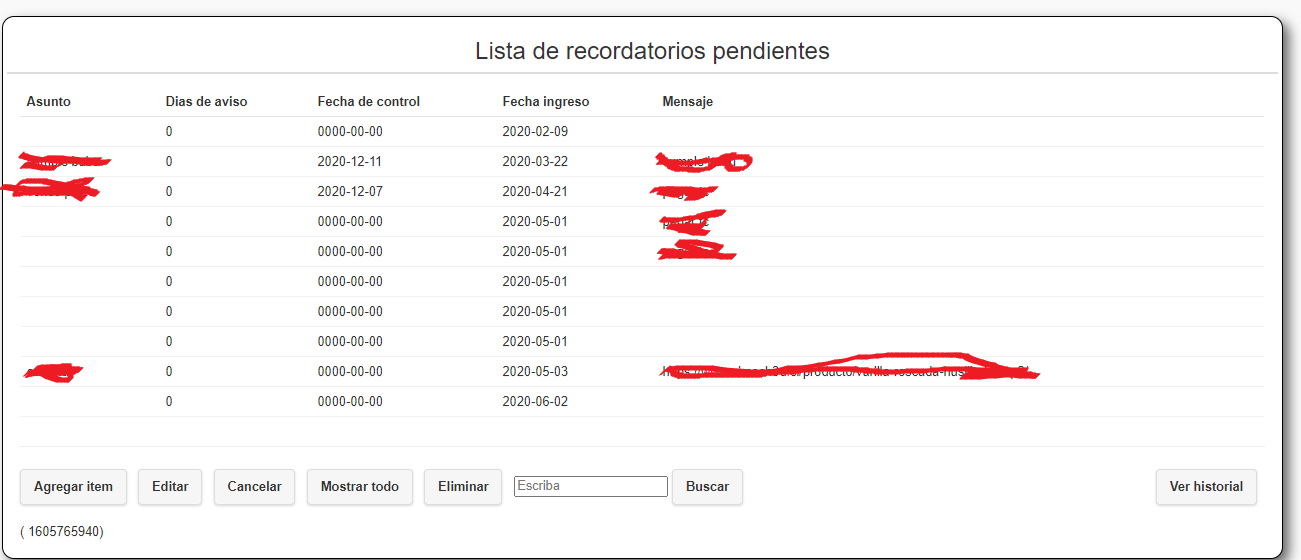
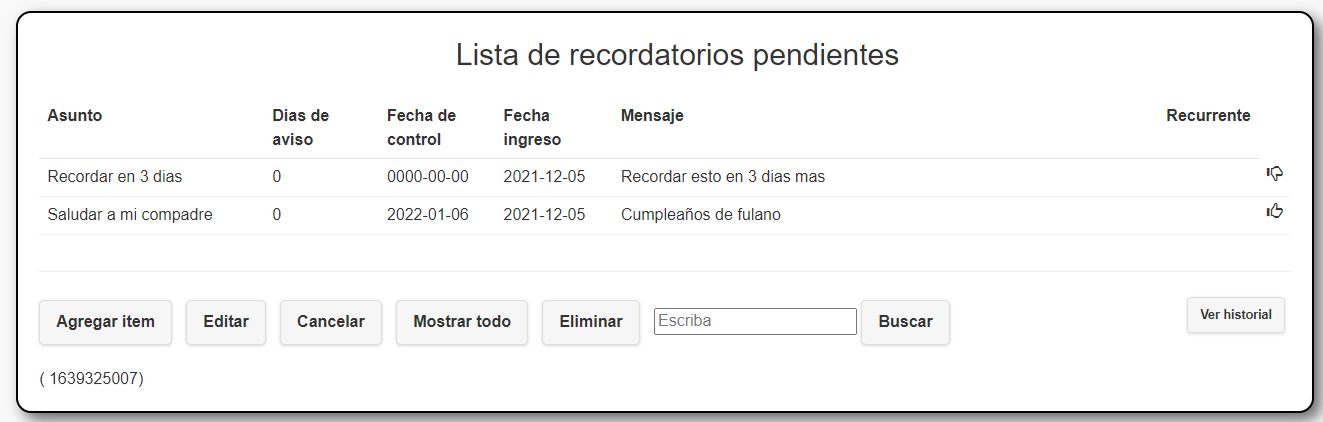
12.12.21
Opcion de cambiar recurrencia en la UI

diff --git a/index.php b/index.php
@@ -104,15 +104,23 @@ if ($_POST) {
                 if (isset($_GET['delete'])) {
 
                     $deleteid = $_GET['id'];
-
                     $deleteidquery = "DELETE FROM `recordatoriosp` WHERE id=$deleteid";
                     $db->query($deleteidquery);
 
                     header("Location: index.php?todo");
+                }
 
+                if (isset($_GET['recurrente'])) {
+
+                    $recurrrenciaid = $_GET['idrec'];
+                    $recurrente = $_GET['recurrente'];
+
+                    $recurrenciadquery = "UPDATE `recordatoriosp` SET `recurrente`=$recurrente WHERE id=$recurrrenciaid";
+
+                    $db->query($recurrenciadquery);
+                   header("Location: index.php");
                 }
                 //en hstech:
-
                 if (isset($_GET['todo'])) {
                     $sql = "SELECT * FROM `recordatoriosp` WHERE desactivado=1";
                 } //else if(!isset($_GET['todo'])) {
@@ -121,14 +129,8 @@ if ($_POST) {
                 }
 
                 if (isset($_POST['busqueda'])) {
-
                     $BusquedaParcial = (string)$_POST['busqueda'];
-
-//                    var_dump($BusquedaParcial);
-//                    echo 'valor es' . $BusquedaParcial;
-
-                    $sql = "SELECT * FROM `recordatoriosp` WHERE desactivado=1 AND asunto LIKE '%" . $BusquedaParcial . "%' OR  mensaje LIKE '%" . $BusquedaParcial . "%'";
-
+                    $sql = "SELECT * FROM `recordatoriosp` WHERE desactivado=1 and asunto LIKE '%" . $BusquedaParcial . "%' or  mensaje LIKE '%" . $BusquedaParcial . "%'";
                 }
 
                 $featured = $db->query($sql);
@@ -166,6 +168,7 @@ if ($_POST) {
                             <?= $mensaje; ?>
                             <a style="display: none;" data-ajax="false" href="index.php?delete&id=<?= $id; ?>"
                                class="eliminar">
+
                                 <span class="glyphicon glyphicon-trash pull-right"></span>
 
                                 <a style="display: none;" data-ajax="false" href="index.php?editar&id=<?= $id; ?>"
@@ -176,9 +179,17 @@ if ($_POST) {
                         <td>
                             <?php
                             if ($recurrente == '1') {
-                                ?> <span class="glyphicon glyphicon-thumbs-up pull-left"></span> <?php
-                            } else {
-                                ?> <span class="glyphicon glyphicon-thumbs-down pull-left"></span> <?php
+                                ?>
+                                <a data-ajax="false" href="index.php?recurrente=0&idrec=<?= $id; ?>">
+                                    <span class="glyphicon glyphicon-thumbs-up pull-left"></span>
+                                </a>
+                                <?php
+                            } else if ($recurrente == '0') {
+                                ?>
+                                <a data-ajax="false" href="index.php?recurrente=1&idrec=<?= $id; ?>">
+                                    <span class="glyphicon glyphicon-thumbs-down pull-left"></span>
+                                </a>
+                                <?php
                             }
                             ?>
                         </td>
@@ -186,8 +197,6 @@ if ($_POST) {
                     </tr>
 
                 <?php
-
-
                 endwhile;
                 $numero = 0; ?>
 

diff --git a/TrabajoDeCronp.php b/TrabajoDeCronp.php
@@ -34,17 +34,16 @@ while ($dato = mysqli_fetch_assoc($featured)):
         //en hstech:
         if ($recurrente == '0') {
             $insertsql2 = "UPDATE `recordatoriosp` SET `desactivado`='0' WHERE id=$id";
-        } else {
-            if ($fecha = $dato['fecha'] == "0000-00-00") {  // una vez al año
-                $fecha = date("Y-m-d", substr(strval(strtotime($fecha) + 1800000), 0, 10));
-                $insertsql2 = "UPDATE `recordatoriosp` SET `desactivado`='1' AND `fecha`=$fecha WHERE id=$id";
-            } else {  //se establecio por periodos fijos, se vuele a repetir en 20 dias mas
-                $time = (int)$time + 31556926 - 8000;
-                $insertsql2 = "UPDATE `recordatoriosp` SET `desactivado`='1' AND `time`= $time  WHERE id=$id";
+        } else { //se repite
+            if (strtotime($fecha) == strtotime("0000-00-00")) { //se establecio por periodos fijos, se vuele a repetir en 20 dias mas
+                $time = strval((int)$time + 1800000 - 8000);
+                $insertsql2 = "UPDATE `recordatoriosp` SET  `time`= $time  WHERE id=$id";
+            } else {   // una vez al año
+                $fecha = (string)date("Y-m-d", substr(strval(strtotime($fecha) + 31556926), 0, 10));
+                $insertsql2 = "UPDATE `recordatoriosp` SET  `fecha`=$fecha WHERE id=$id";
             }
         }
         $db->query($insertsql2);
-
     }
 
 endwhile; ?>
